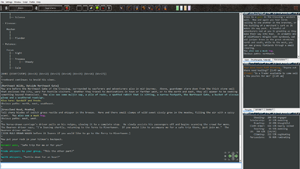
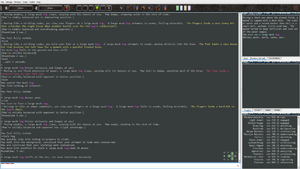
Updated screenshots and removed timer module description from scripting basics.

Changed region(s): [[0.0, 0.0296, 1.0, 1.0]]

diff --git a/basics.html b/basics.html
@@ -132,29 +132,7 @@
         put "put my #{$args.first} in my backpack"
     }
     </code></pre>
-
-        <p>
-            The frostbite API includes a timer module for creating independant repetitive mechanics in the script flow.
-            The repetitive block has to be declared in the script header -- meaning it has to be declared before any
-            blocking part of the code. Otherwise if no repetitive block is declared or it does not follow the proper naming
-            conventions the repetitive functions will not be implemented. The name of the repetitive block has to be declared
-            in the following format - <i>"every_(n)s_do"</i>, where (n) denominates the number of seconds (minimum of 1)
-            in the execution interval. When executed, the repetitive block calls an interrupt on the script flow for the
-            period of execution and continues running the script after it ends.
-        </p>
-
-    <pre><code>
-    def every_25s_do {
-        put "exp perception"
-        match = { :end => [/% mind lock/, /% nearly locked/],
-                  :forage => [/EXP HELP/] }
-
-        case match_wait match
-            when :end
-                exit
-        end
-    }
-    </code></pre>
+        <br />
 
         <p>
             There are different ways to set up the script flow in Ruby. With some additions to the standard library
@@ -267,37 +245,6 @@ C:/FrostBite/scripts/hello.rb:1:in `': undefined local variable or method `hello
 :exit => ["study this chart again", "need to be holding"]
 </code></pre>
     <br/>
-
-    <p>
-        Regular expression reference:
-    </p>
-
-<pre><code>
-[abc] 	#A single character of: a, b or c
-[^abc] 	#Any single character except: a, b, or c
-[a-z] 	#Any single character in the range a-z
-[a-zA-Z] #Any single character in the range a-z or A-Z
-^ 	#Start of line
-$ 	#End of line
-\A 	#Start of string
-\z 	#End of string
-. 	#Any single character
-\s 	#Any whitespace character
-\S 	#Any non-whitespace character
-\d 	#Any digit
-\D 	#Any non-digit
-\w 	#Any word character (letter, number, underscore)
-\W 	#Any non-word character
-\b 	#Any word boundary
-(...) 	#Capture everything enclosed
-(a|b) 	#a or b
-a? 	#Zero or one of a
-a* 	#Zero or more of a
-a+ 	#One or more of a
-a{3} 	#Exactly 3 of a
-a{3,} 	#3 or more of a
-a{3,6} 	#Between 3 and 6 of a
-</code></pre>
 
     </div>
 	<footer>
